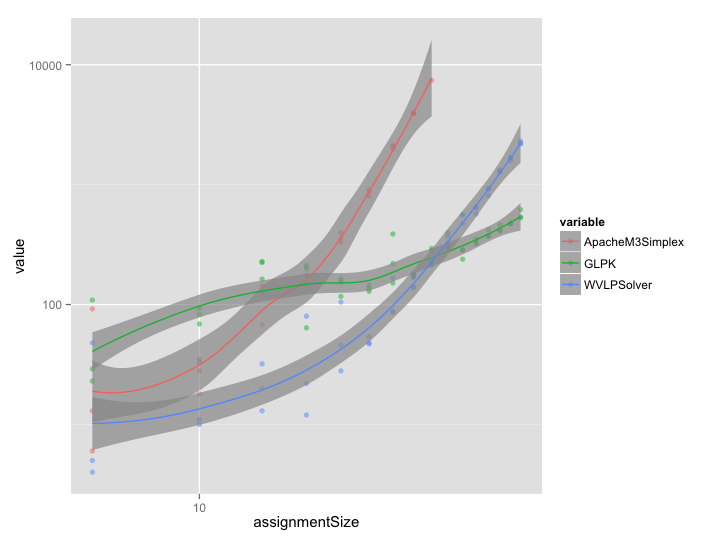
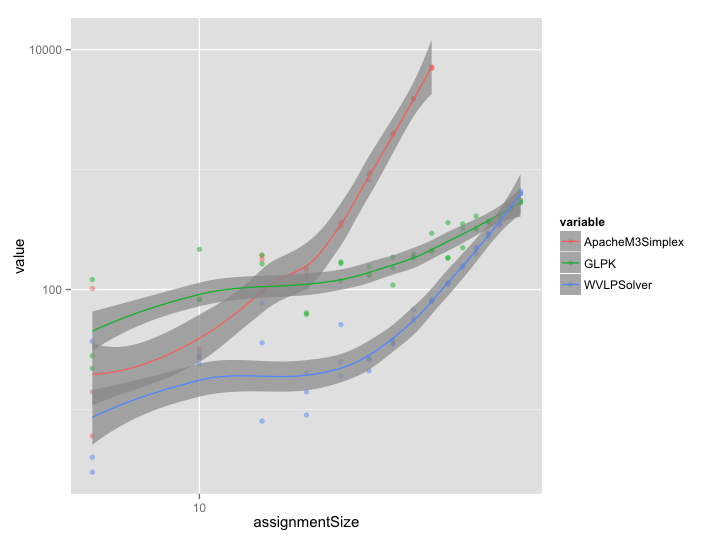
fix plot origplot bug restore check for obvious full rankness re-do runs and plots

Changed region(s): [[0.1222, 0.0889, 0.7333, 0.8593], [0.0306, 0.0889, 0.0917, 0.1481], [0.0611, 0.5333, 0.0917, 0.5926]]

diff --git a/src/com/winvector/lp/impl/LPSolverImpl.java b/src/com/winvector/lp/impl/LPSolverImpl.java
@@ -2,6 +2,7 @@ package com.winvector.lp.impl;
 
 import java.util.ArrayList;
 import java.util.Arrays;
+import java.util.BitSet;
 import java.util.HashSet;
 import java.util.Set;
 
@@ -298,6 +299,22 @@ abstract class LPSolverImpl implements LPSolver {
 		}
 		return soln.basisColumns;
 	}
+	
+	private static boolean obviouslyFullRowRank(final PreMatrixI a) {
+		if(a.cols()<a.rows()) {
+			return false;
+		}
+		final BitSet haveBasis = new BitSet(a.rows());
+		final Object extractTemps = a.buildExtractTemps();
+		for(int j=0;j<a.cols();++j) {
+			final SparseVec col = a.extractColumn(j,extractTemps);
+			if(col.popCount()==1) {
+				final int i = col.nzIndex();
+				haveBasis.set(i);
+			}
+		}
+		return haveBasis.cardinality()>=a.rows();
+	}
 
 	/**
 	 * @param prob
@@ -350,10 +367,18 @@ abstract class LPSolverImpl implements LPSolver {
 				}
 			}
 		}
-		final int[] rb = origProb.A.matrixCopy(factory).rowBasis(minBasisEpsilon); // TODO: get a better solution here, this is using nearly 1/2 of the time
-		if (rb.length != origProb.A.rows()) {
-			 final ColumnMatrix nA = new ColumnMatrix(origProb.A).extractRows(rb);
-			 final double[] nb = Matrix.extract(origProb.b,rb);
+		final int[] rb;
+		if(obviouslyFullRowRank(prob.A)) {
+			rb = new int[prob.A.rows()];
+			for(int i=0;i<rb.length;++i) {
+				rb[i] = i;
+			}
+		} else {
+			rb = prob.A.matrixCopy(factory).rowBasis(minBasisEpsilon); // TODO: get a better solution here, this is using nearly 1/2 of the time
+		}
+		if (rb.length != prob.A.rows()) {
+			 final ColumnMatrix nA = new ColumnMatrix(prob.A).extractRows(rb);
+			 final double[] nb = Matrix.extract(prob.b,rb);
 			 prob = new LPEQProb(nA, nb, prob.c);
 		}
 		final int[] basis0;
@@ -369,10 +394,7 @@ abstract class LPSolverImpl implements LPSolver {
 					"bad basis back from phase1 raw solve");
 		}
 		//System.out.println("phase1steps " + phase1StepsTaken + ", phase2 steps " + soln.stepsTaken);
-		LPEQProb.checkPrimFeas(prob.A, prob.b, soln.primalSolution, tol);
-		if (prob != origProb) {
-			LPEQProb.checkPrimFeas(origProb.A, origProb.b, soln.primalSolution, tol);
-		}
+		LPEQProb.checkPrimFeas(origProb.A, origProb.b, soln.primalSolution, tol);
 		soln.basisRows = rb;
 		for(int i=0;i<rb.length;++i) {
 			rb[i] = i;
